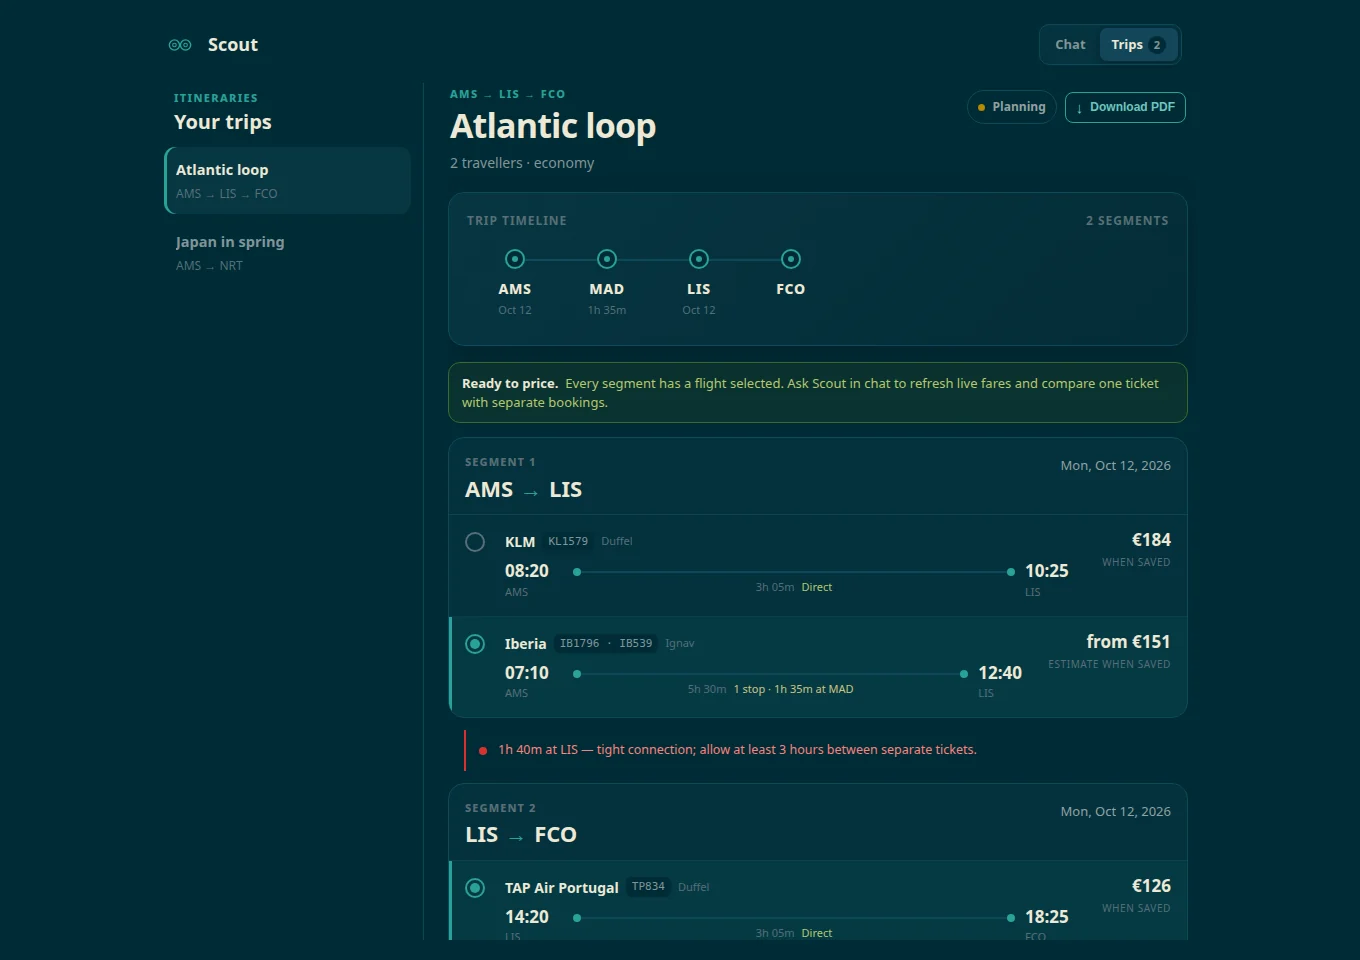
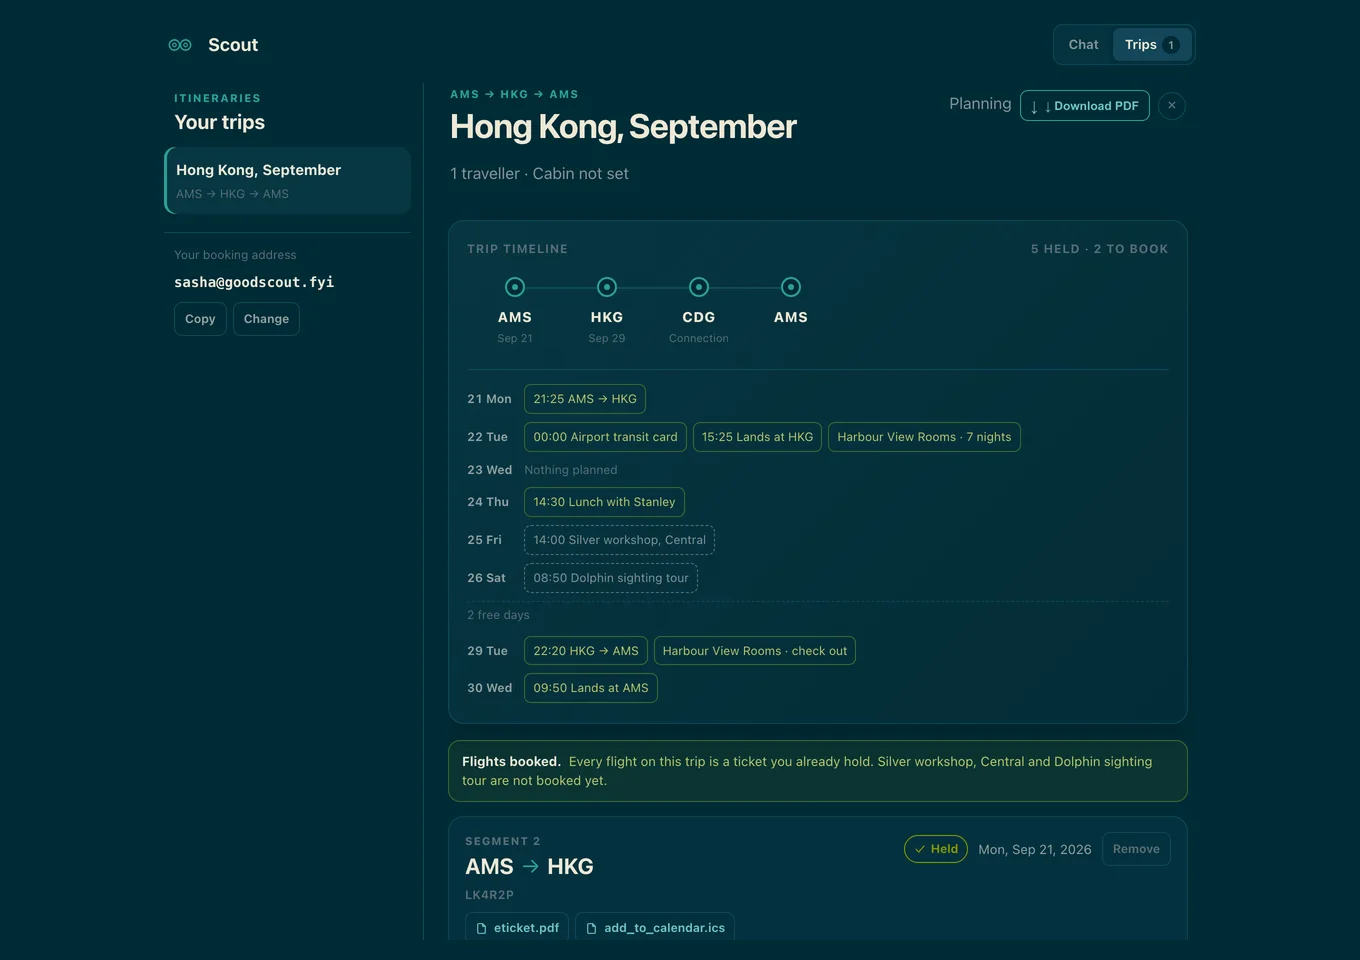
docs: product shots that show what the client does now
The screenshots on the landing page and the README were from 10
September — before the booking address, the day rows, the held and
still-to-book states, and notes on an item. They showed a product that
no longer exists.

Re-rendered from the current client against example data rather than
cropping the owner's own screen. Their trip carries real airline
references and ticket filenames, and a PNR with a surname is often
enough to open somebody's booking: blurring one handle would not have
covered that, and a public landing page is not the place to find out.
The address in the shot is the `sasha@goodscout.fyi` the docs already
use for examples.

The copy under the shot described a timeline of airports, which is now
the smaller half of what is there; it says what the day rows do instead.
The alt text is pinned by what it must convey — the days and the two
states — rather than by the nouns in it, since the shot is re-rendered
whenever the client changes.

Also `minmax(0, 1fr)` on the day-row grid: a grid column's default
minimum is its content, so one long chip could make the overview wider
than a phone and take the card's right edge off the screen with it.

diff --git a/crates/scout-web/src/index.html b/crates/scout-web/src/index.html
@@ -291,11 +291,12 @@
     <p class="kicker">Trips in the browser</p>
     <h2 class="feature-title" id="trip-feature-title">See the whole route. Make the choice.</h2>
     <p>
-      Every airport, saved flight and connection sits in one timeline. Compare the options
-      Scout found, choose the flight you want, and see the time at the next airport update
-      immediately — before a tight connection becomes a surprise. Hotels, museums and trains
-      stand in the same column, in date order between the legs, each marked when it is booked.
-      Download the full plan as a print-ready PDF when you want it away from the screen.
+      The route across the top, then a row for every day of the trip: what happens on it,
+      what you are still to book, and which days have nothing on them yet. Flights, hotels,
+      museums and trains stand in one list in date order, each marked held or still to book,
+      and a leg that lands the next morning appears on both days rather than looking
+      instantaneous. Press anything in the day rows to jump to it. Download the whole plan
+      as a print-ready PDF when you want it away from the screen.
     </p>
   </div>
   <picture class="trip-shot">
@@ -303,7 +304,7 @@
             width="390" height="844">
     <img src="/assets/trips-desktop.webp" width="1360" height="960" loading="lazy"
          decoding="async"
-         alt="Scout trip planner showing Amsterdam, Madrid, Lisbon and Rome on a timeline, two flight options, saved fares and a tight connection warning">
+         alt="Scout trip planner: a Hong Kong trip with the route across the top, a row for each day showing flights, a hotel and activities, two of them still to book, and a booking address in the sidebar">
   </picture>
   <p class="caption">
     A saved price is labelled by its source and age. Before booking, ask Scout to refresh
@@ -311,12 +312,12 @@
   </p>
   <div class="feature-proof">
     <div>
-      <strong>All airports, one line</strong>
-      <p>Departure, arrival and layover airports stay visible across the whole trip.</p>
+      <strong>A row for every day</strong>
+      <p>Including the ones with nothing on them, which is the thing a plan usually hides.</p>
     </div>
     <div>
-      <strong>Options stay comparable</strong>
-      <p>Airline, flight numbers, duration, stops, source and saved fare travel together.</p>
+      <strong>Held, or still to book</strong>
+      <p>Said on every item in a word, not a colour, and the same on the printed plan.</p>
     </div>
     <div>
       <strong>Connections recalculate</strong>

diff --git a/crates/scout-web/src/chat.html b/crates/scout-web/src/chat.html
@@ -376,7 +376,11 @@
      its chips would take that away in exchange for room the chips do not
      need. */
   .trip-days{margin-top:14px; padding-top:12px; border-top:1px solid var(--line);
-    display:grid; grid-template-columns:auto 1fr; gap:4px 12px; align-items:baseline}
+    /* `minmax(0, 1fr)`, not `1fr`: a grid column's default minimum is its
+       content, so one long chip — a hotel name and its nights — made the
+       whole overview wider than a phone and took the card's right edge
+       off the screen with it. */
+    display:grid; grid-template-columns:auto minmax(0, 1fr); gap:4px 12px; align-items:baseline}
   .day-row{display:contents}
   .day-label{color:var(--base1); font-size:12px; font-weight:650; white-space:nowrap;
     font-variant-numeric:tabular-nums}

diff --git a/crates/scout-web/src/page.rs b/crates/scout-web/src/page.rs
@@ -207,7 +207,14 @@ mod tests {
         assert!(page.contains(r#"srcset="/assets/trips-mobile.webp""#));
         assert!(page.contains(r#"width="1360" height="960""#));
         assert!(page.contains(r#"width="390" height="844""#));
-        assert!(page.contains("alt=\"Scout trip planner showing Amsterdam"));
+        // The alt text says what the shot actually shows, and the shot is
+        // re-rendered from the client whenever the client changes — so
+        // this pins the shape of the sentence rather than its nouns: a
+        // reader who cannot see the image is owed the day rows and the
+        // two states, which are what the picture is of.
+        assert!(page.contains("alt=\"Scout trip planner"), "the shot lost its description");
+        assert!(page.contains("a row for each day"), "the alt text does not say what the shot shows");
+        assert!(page.contains("still to book"), "the alt text does not say the two states apart");
     }
 
     #[test]

diff --git a/README.md b/README.md
@@ -57,11 +57,11 @@ Nothing lands on a trip until you click Add. Everything else — newsletters, ma
 read, arrivals you ignored — sits under Other mail for thirty days.
 
 <p align="center">
-  <img src="crates/scout-web/src/assets/trips-desktop.webp" alt="Scout trip planner on desktop, with an airport timeline, flight choices, saved fares and a tight connection warning" width="900">
+  <img src="crates/scout-web/src/assets/trips-desktop.webp" alt="Scout trip planner on desktop: the route across the top, then a row for each day of the trip with what falls on it, a booking address in the sidebar, and each item marked held or still to book" width="900">
 </p>
 
 <p align="center">
-  <img src="crates/scout-web/src/assets/trips-mobile.webp" alt="Scout trip planner on a mobile screen" width="320">
+  <img src="crates/scout-web/src/assets/trips-mobile.webp" alt="The same trip on a phone: the day rows keep their date column, and each day&apos;s items wrap beneath it" width="320">
 </p>
 
 Built in Rust with [teloxide](https://github.com/teloxide/teloxide),
